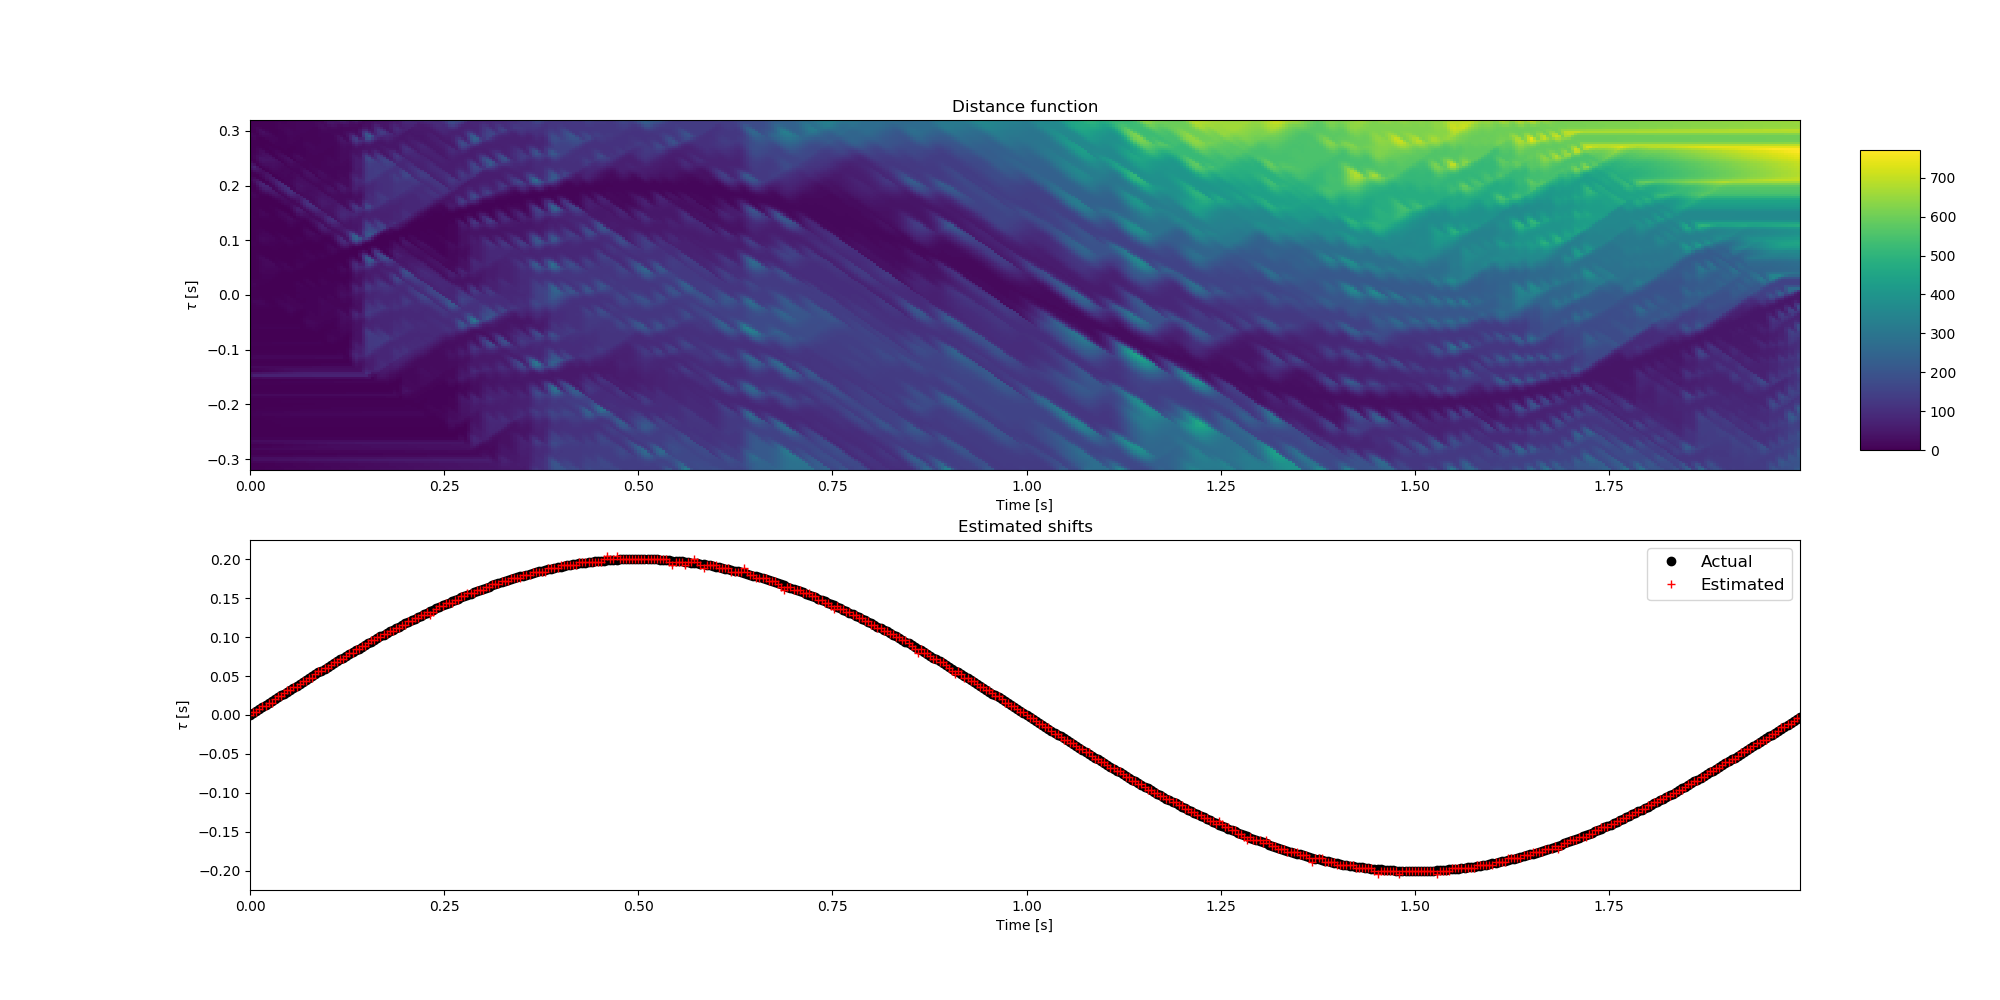
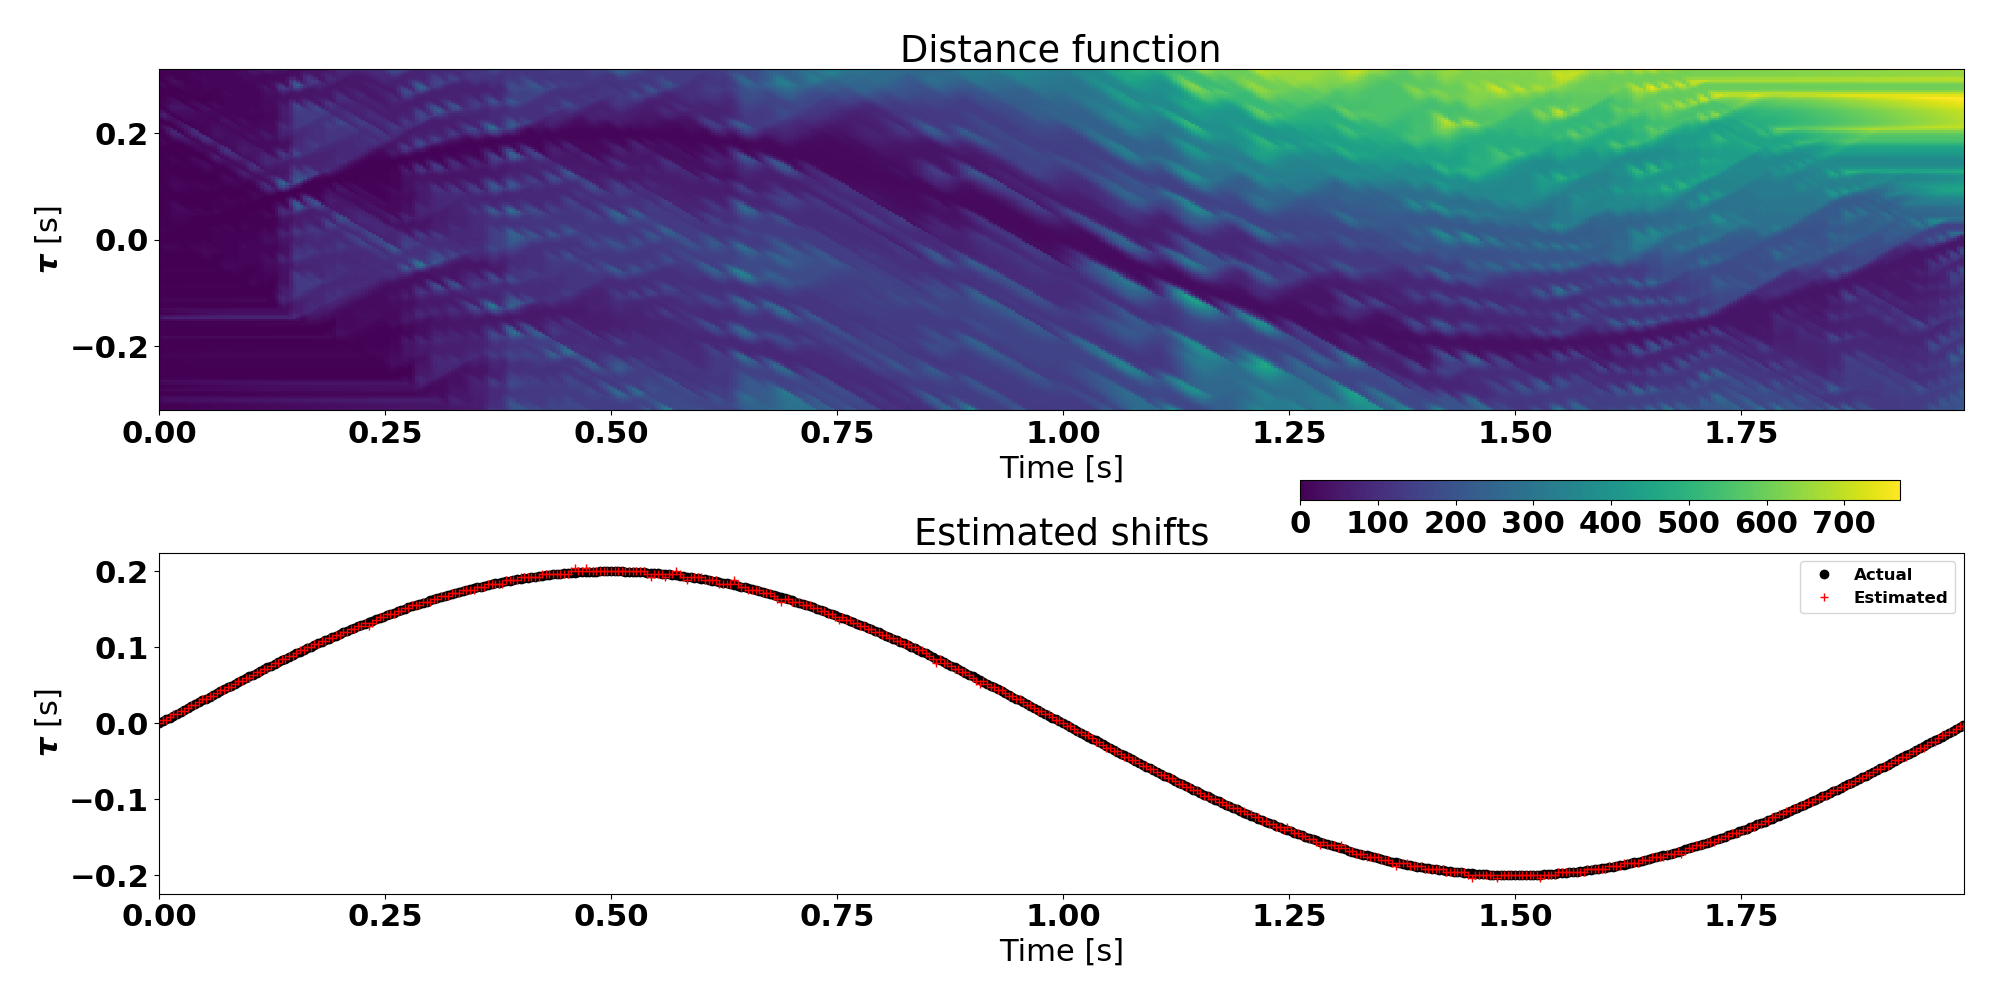
Change colorbar

diff --git a/run_example.py b/run_example.py
@@ -1,8 +1,15 @@
 import numpy as np 
 import pandas as pd 
 import matplotlib.pyplot as plt 
+import matplotlib
 from mpl_toolkits.axes_grid1 import make_axes_locatable
 import dtw 
+
+font = {'family' : 'normal',
+        'weight' : 'bold',
+        'size'   : 22}
+
+matplotlib.rc('font', **font)
 
 # parameters
 maxLag = 80
@@ -30,8 +37,8 @@ ax[0].set_title('Distance function')
 ax[0].set_xlabel('Time [s]')
 ax[0].set_ylabel(r'$\tau$ [s]')
 ax[0].invert_yaxis()  
-cax = fig.add_axes([0.93, 0.55, 0.03, 0.3])
-fig.colorbar(dist_mat,cax=cax)
+cax = fig.add_axes([0.65, 0.5, 0.3, 0.02])
+fig.colorbar(dist_mat,cax=cax,orientation='horizontal')
 # plot real shifts against estimated shifts
 ax[1].plot(tvec,stTime,'ko',label='Actual')
 ax[1].plot(tvec,stbarTime,'r+',label='Estimated') 
@@ -41,5 +48,6 @@ ax[1].set_xlabel('Time [s]')
 ax[1].set_ylabel(r'$\tau$ [s]')
 ax[1].set_xlim([tvec[0],tvec[-1]])
 plt.autoscale(enable=True, tight=True)
+fig.tight_layout()
 plt.savefig('SINEdistance.png')
 plt.show()
